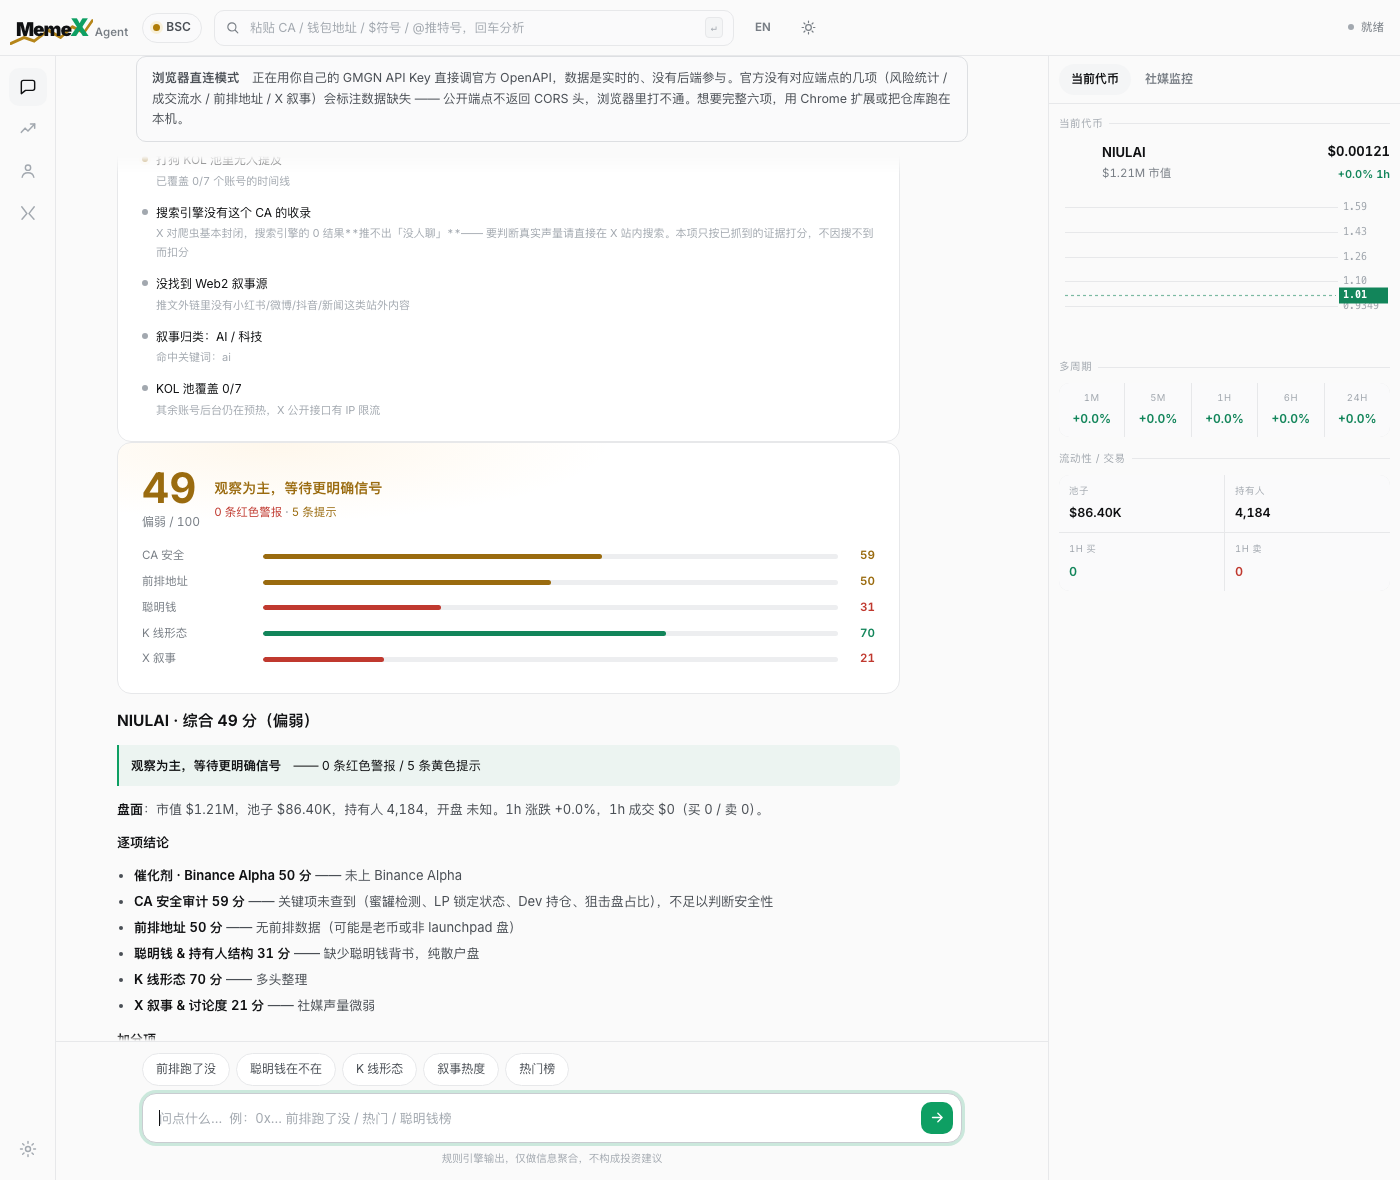
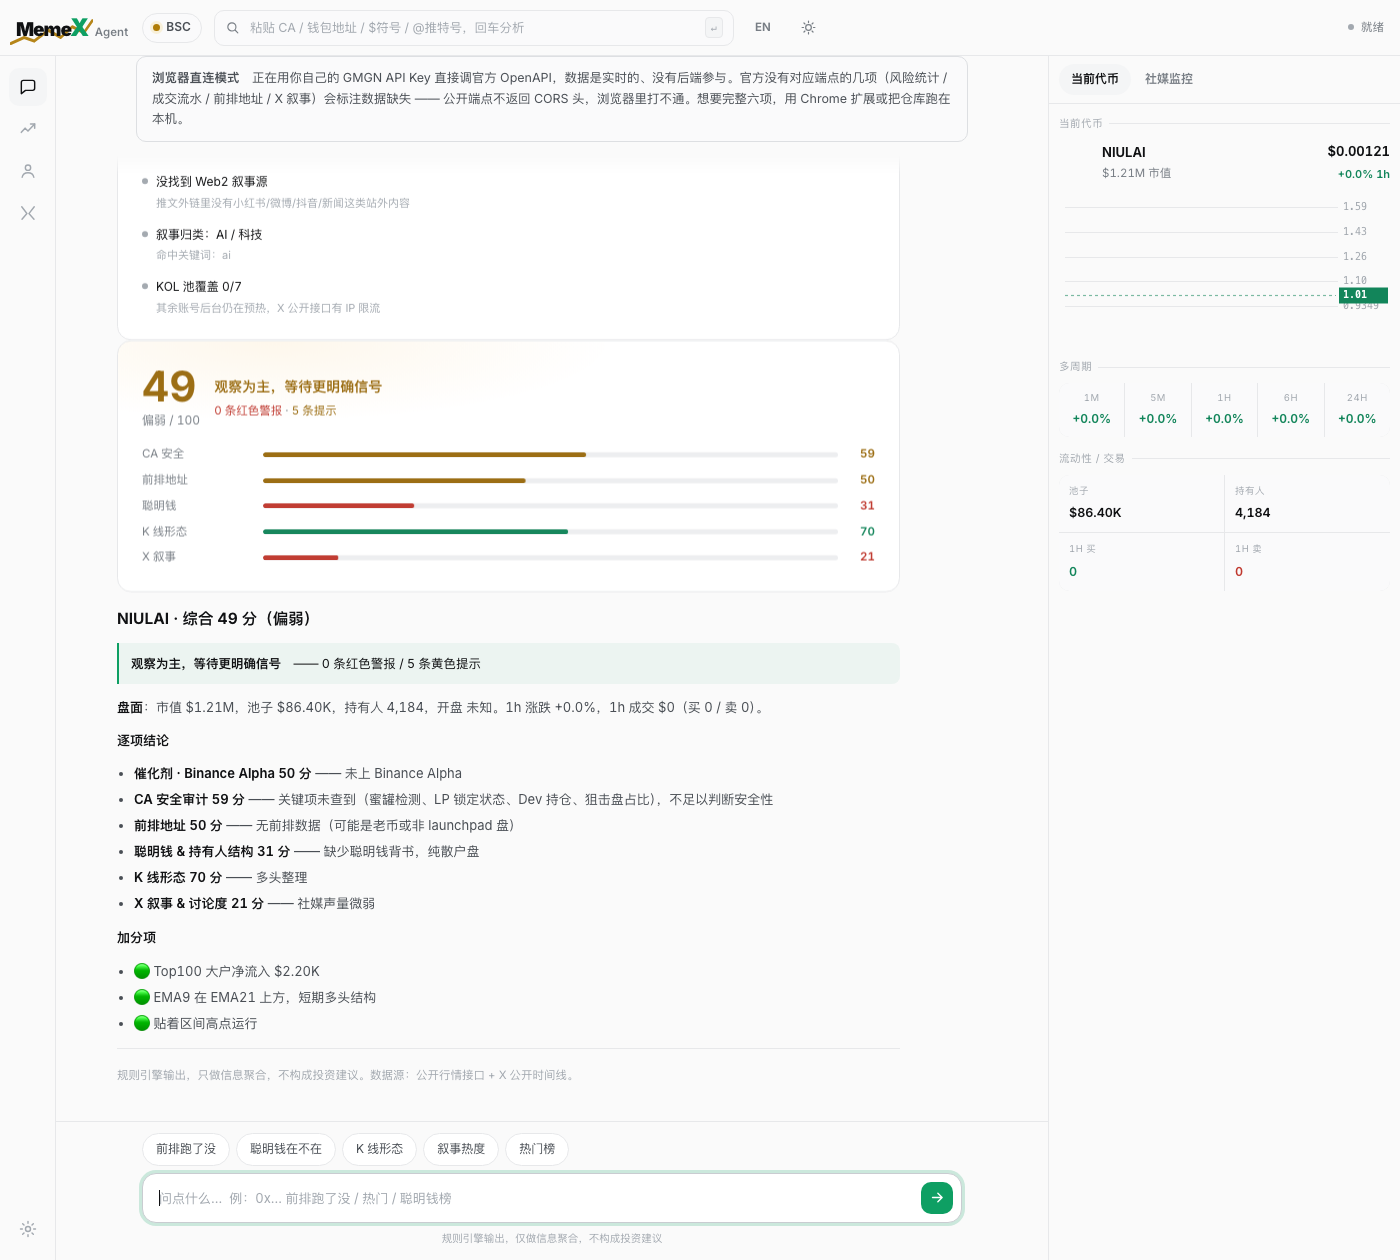
英文 README 用英文界面的配图；顺带修三处英文残留
原来两个 README 共用同一张中文界面截图。改成 aitrader 的惯例：
static/memex_en.png（英文界面）+ static/memex_zh.png（中文界面），
两张同取景、各自语言纯净。

做英文配图时发现三处「切成英文后仍是中文」，已在上游修掉并重建单文件：

· `'实时 · ' + engine` 在 engine 为空时留下悬空分隔符 `实时 · `，
  词典按整句匹配查不到 '实时'。同段另有两处同样问题。
· <title> 在 <head> 里，而 i18n 的 walk() 只遍历 document.body ——
  结构上碰不到，切英文后标签页一直是中文。
· 「关键项未查到（…），不足以判断安全性」是运行时拼装的，整句进不了词典。
  加 'list' 型 pattern 让括号里的项逐个替换，并补四个标签的词条；
  同时把中文顿号「、」归一成逗号，否则是 `honeypot check、LP lock status`
  这种中英混排。

英文界面现在这样显示这条关键结论：
  Contract audit 59 — Key checks unavailable (honeypot check, LP lock status,
  dev holdings, sniper share) — not enough to judge safety

diff --git a/docs/memex/index.html b/docs/memex/index.html
@@ -1505,6 +1505,11 @@ var DICT = {
   '手工名单': 'Manual list', '永远优先预热': 'always warmed first',
   '加载中…': 'Loading…', '数据源': 'Data sources', '权重': 'Weights',
   '已复制 ✓': 'Copied ✓',
+  /* ── ca_audit 的 unknown 标签。这几个会被拼进「关键项未查到（…）」，
+        靠下面那条 'list' 型 pattern + subDict 逐个替换。 ── */
+  '蜜罐检测': 'honeypot check', 'LP 锁定状态': 'LP lock status',
+  'Dev 持仓': 'dev holdings', '狙击盘占比': 'sniper share',
+  'MemeX Agent · BSC 链上分析': 'MemeX Agent · On-chain Analysis for BSC',
   'Binance Alpha 催化剂': 'Binance Alpha catalyst',
   '有没有上 Alpha、上了多久、还在不在架上 —— 封顶加减分，不进加权平均':
     'Whether it listed on Alpha, how long ago, and whether it is still listed — '
@@ -1966,6 +1971,10 @@ var PATTERNS = [
   [/^源推互动 (.+)$/, 'Origin post engagement $1'],
   [/^源推互动仅 (\d+)$/, 'Origin post engagement only $1'],
   [/^(.+?) 数据缺失$/, '$1 data unavailable'],
+  /* 这一条是拼装出来的（`关键项未查到（${unknown.join('、')}），…`），
+     整句进不了词典。标 'list' 让括号里的项走 subDict 逐个替换。 */
+  [/^关键项未查到（(.+?)），不足以判断安全性$/,
+   'Key checks unavailable ($1) — not enough to judge safety', 'list'],
   [/^(\d+) 个数据源已就位$/, '$1 data sources ready'],
   [/^(.+?) \((.+?)\) · 持有人 ([\d,]+)$/, '$1 ($2) · $3 holders'],
   [/^安全审计 (\d+) 分 · (.+)$/, 'Contract audit $1 — $2'],
@@ -2076,6 +2085,9 @@ function subDict(text) {
     var k = _byLen[i];
     if (out.indexOf(k) >= 0) { out = out.split(k).join(DICT[k]); hit = true; }
   }
+  // 中文顿号在英文里应当是逗号。词典逐项替换完还留着「、」的话，
+  // 出来就是 `honeypot check、LP lock status` 这种中英混排。
+  if (hit) out = out.replace(/、/g, ', ');
   return hit ? out : null;
 }
 
@@ -2214,11 +2226,22 @@ function forget() {
   try { localStorage.removeItem('memex-lang'); } catch (e) {}
 }
 
+/* <title> 在 <head> 里，而 walk() 遍历的是 document.body —— 它永远碰不到标题。
+   结果是切成英文后浏览器标签页仍显示中文（英文版截图里发现的）。单独处理。 */
+var titleZh = null;
+function syncTitle() {
+  if (titleZh === null) titleZh = document.title;
+  if (current === 'zh') { document.title = titleZh; return; }
+  var out = DICT[titleZh.trim()];
+  if (out) document.title = out;
+}
+
 function setLang(lang) {
   var next = lang === 'en' ? 'en' : 'zh';
   if (next === current) return;
   if (next === 'zh') { current = 'zh'; restore(document.body); }
   else { current = 'en'; walk(document.body); }
+  syncTitle();
   document.documentElement.setAttribute('lang', LANGS[current]);
   try { localStorage.setItem('memex-lang', current); } catch (e) {}
   var b = document.getElementById('lang-btn');
@@ -7630,15 +7653,21 @@ R.x_narrative = function (d) {
 
   /* ── ① 全网讨论（主路，按讨论度排序）── */
   var sr = dd.search || {};
-  var stateNote = { fresh: '缓存命中', live: '实时 · ' + (sr.engine || ''),
+  /* engine 为空时不能留下悬空的「实时 · 」—— 词典是按整句匹配的，
+     `实时 ·` 这个带尾分隔符的串查不到词条，切英文后它会原样留在页面上
+     （英文截图里就是这么发现的）。所以有 engine 才拼分隔符。 */
+  var stateNote = { fresh: '缓存命中',
+    live: sr.engine ? '实时 · ' + sr.engine : '实时',
     stale: '旧缓存', queued: 'Bing 无结果，DDG 慢队列已接单',
     cooling: '搜索引擎冷却中' }[sr.state] || '';
   if ((sr.tweets || []).length) {
     sec.push(secTitle('全网讨论 · 讨论度 Top' + sr.tweets.length,
-      (sr.all_count ? sr.all_count + ' 条命中 · ' : '') + stateNote) +
+      (sr.all_count ? sr.all_count + ' 条命中' + (stateNote ? ' · ' : '') : '')
+      + stateNote) +
       sr.tweets.map(tweetHtml).join(''));
   } else {
-    sec.push(secTitle('全网讨论', (dd.window_hours || 24) + 'h 窗口内 0 条 · ' + stateNote));
+    sec.push(secTitle('全网讨论', (dd.window_hours || 24) + 'h 窗口内 0 条'
+      + (stateNote ? ' · ' + stateNote : '')));
   }
 
   /* ── ② 历史讨论：窗口外，但叙事高峰常在这里 ── */

diff --git a/memex/static/index.html b/memex/static/index.html
@@ -1505,6 +1505,11 @@ var DICT = {
   '手工名单': 'Manual list', '永远优先预热': 'always warmed first',
   '加载中…': 'Loading…', '数据源': 'Data sources', '权重': 'Weights',
   '已复制 ✓': 'Copied ✓',
+  /* ── ca_audit 的 unknown 标签。这几个会被拼进「关键项未查到（…）」，
+        靠下面那条 'list' 型 pattern + subDict 逐个替换。 ── */
+  '蜜罐检测': 'honeypot check', 'LP 锁定状态': 'LP lock status',
+  'Dev 持仓': 'dev holdings', '狙击盘占比': 'sniper share',
+  'MemeX Agent · BSC 链上分析': 'MemeX Agent · On-chain Analysis for BSC',
   'Binance Alpha 催化剂': 'Binance Alpha catalyst',
   '有没有上 Alpha、上了多久、还在不在架上 —— 封顶加减分，不进加权平均':
     'Whether it listed on Alpha, how long ago, and whether it is still listed — '
@@ -1966,6 +1971,10 @@ var PATTERNS = [
   [/^源推互动 (.+)$/, 'Origin post engagement $1'],
   [/^源推互动仅 (\d+)$/, 'Origin post engagement only $1'],
   [/^(.+?) 数据缺失$/, '$1 data unavailable'],
+  /* 这一条是拼装出来的（`关键项未查到（${unknown.join('、')}），…`），
+     整句进不了词典。标 'list' 让括号里的项走 subDict 逐个替换。 */
+  [/^关键项未查到（(.+?)），不足以判断安全性$/,
+   'Key checks unavailable ($1) — not enough to judge safety', 'list'],
   [/^(\d+) 个数据源已就位$/, '$1 data sources ready'],
   [/^(.+?) \((.+?)\) · 持有人 ([\d,]+)$/, '$1 ($2) · $3 holders'],
   [/^安全审计 (\d+) 分 · (.+)$/, 'Contract audit $1 — $2'],
@@ -2076,6 +2085,9 @@ function subDict(text) {
     var k = _byLen[i];
     if (out.indexOf(k) >= 0) { out = out.split(k).join(DICT[k]); hit = true; }
   }
+  // 中文顿号在英文里应当是逗号。词典逐项替换完还留着「、」的话，
+  // 出来就是 `honeypot check、LP lock status` 这种中英混排。
+  if (hit) out = out.replace(/、/g, ', ');
   return hit ? out : null;
 }
 
@@ -2214,11 +2226,22 @@ function forget() {
   try { localStorage.removeItem('memex-lang'); } catch (e) {}
 }
 
+/* <title> 在 <head> 里，而 walk() 遍历的是 document.body —— 它永远碰不到标题。
+   结果是切成英文后浏览器标签页仍显示中文（英文版截图里发现的）。单独处理。 */
+var titleZh = null;
+function syncTitle() {
+  if (titleZh === null) titleZh = document.title;
+  if (current === 'zh') { document.title = titleZh; return; }
+  var out = DICT[titleZh.trim()];
+  if (out) document.title = out;
+}
+
 function setLang(lang) {
   var next = lang === 'en' ? 'en' : 'zh';
   if (next === current) return;
   if (next === 'zh') { current = 'zh'; restore(document.body); }
   else { current = 'en'; walk(document.body); }
+  syncTitle();
   document.documentElement.setAttribute('lang', LANGS[current]);
   try { localStorage.setItem('memex-lang', current); } catch (e) {}
   var b = document.getElementById('lang-btn');
@@ -7630,15 +7653,21 @@ R.x_narrative = function (d) {
 
   /* ── ① 全网讨论（主路，按讨论度排序）── */
   var sr = dd.search || {};
-  var stateNote = { fresh: '缓存命中', live: '实时 · ' + (sr.engine || ''),
+  /* engine 为空时不能留下悬空的「实时 · 」—— 词典是按整句匹配的，
+     `实时 ·` 这个带尾分隔符的串查不到词条，切英文后它会原样留在页面上
+     （英文截图里就是这么发现的）。所以有 engine 才拼分隔符。 */
+  var stateNote = { fresh: '缓存命中',
+    live: sr.engine ? '实时 · ' + sr.engine : '实时',
     stale: '旧缓存', queued: 'Bing 无结果，DDG 慢队列已接单',
     cooling: '搜索引擎冷却中' }[sr.state] || '';
   if ((sr.tweets || []).length) {
     sec.push(secTitle('全网讨论 · 讨论度 Top' + sr.tweets.length,
-      (sr.all_count ? sr.all_count + ' 条命中 · ' : '') + stateNote) +
+      (sr.all_count ? sr.all_count + ' 条命中' + (stateNote ? ' · ' : '') : '')
+      + stateNote) +
       sr.tweets.map(tweetHtml).join(''));
   } else {
-    sec.push(secTitle('全网讨论', (dd.window_hours || 24) + 'h 窗口内 0 条 · ' + stateNote));
+    sec.push(secTitle('全网讨论', (dd.window_hours || 24) + 'h 窗口内 0 条'
+      + (stateNote ? ' · ' + stateNote : '')));
   }
 
   /* ── ② 历史讨论：窗口外，但叙事高峰常在这里 ── */

diff --git a/README.md b/README.md
@@ -18,7 +18,7 @@ Community-contributed demos built with the GMGN OpenAPI, provided for reference 
 |---|---|---|---|
 | [aitrader](aitrader/) — Token Screen | Local memecoin screening + one-click trading dashboard built on GMGN Skills/MCP: deterministic rules cast wide → scoring cuts hard → LLM only explains survivors → you press to trade. See [aitrader/README.md](aitrader/README.md) to run it locally. | https://gmgnai.github.io/skillmarket-demos/aitrader/ | <img src="static/aitrader_en.png" alt="aitrader screenshot" width="360"> |
 | [aitrader](aitrader/) — Wallet Evaluation | Companion tab: enter any wallet address to get trading-style tags, a Track-Record Score and a Copy-Tradeability Score, a Dev-reputation score, and a copy-trade backtest simulator — all deterministic rules, no LLM. | https://gmgnai.github.io/skillmarket-demos/aitrader/ | <img src="static/wallet_eval_en.png" alt="aitrader wallet evaluation screenshot" width="360"> |
-| [memex](memex/) — BSC due diligence | Single-file, front-end-only panel: drop in a contract address and six deterministic rule-based skills produce a 0-100 composite score where every deduction states its reason (no LLM scoring). Calls the official OpenAPI directly with your own key, no backend. **Missing data is never counted as good news** — with the honeypot check unavailable the score is capped at 59 and the verdict says so. See [memex/README.en.md](memex/README.en.md). | https://gmgnai.github.io/skillmarket-demos/memex/ | <img src="static/memex_zh.png" alt="memex screenshot" width="360"> |
+| [memex](memex/) — BSC due diligence | Single-file, front-end-only panel: drop in a contract address and six deterministic rule-based skills produce a 0-100 composite score where every deduction states its reason (no LLM scoring). Calls the official OpenAPI directly with your own key, no backend. **Missing data is never counted as good news** — with the honeypot check unavailable the score is capped at 59 and the verdict says so. See [memex/README.en.md](memex/README.en.md). | https://gmgnai.github.io/skillmarket-demos/memex/ | <img src="static/memex_en.png" alt="memex screenshot" width="360"> |
 
 ---
 
